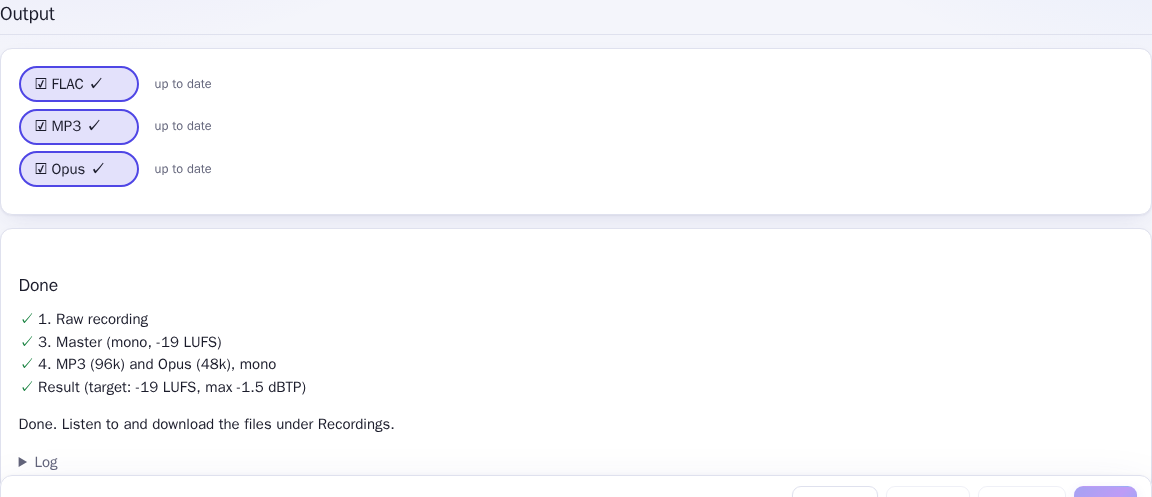
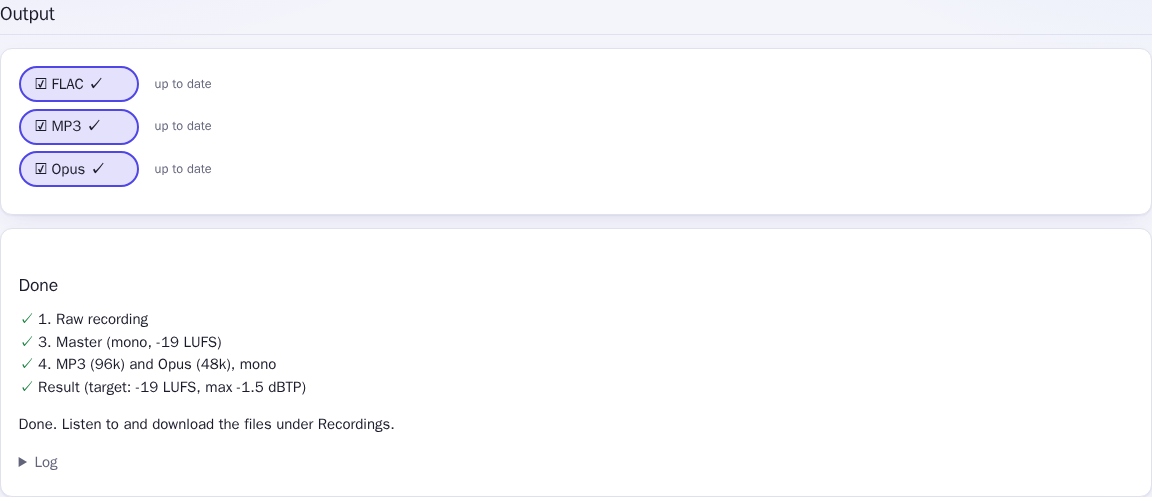
README and guide: pictures without the Save bar on top; undo and cutting while listening
The guide's cropped pictures (the sections list in the README, the cut
warning, processing, done) had the Save bar, which sticks to the bottom of
the window, drawn over their lower part. In those pictures it now sits in its
normal place, as the header already did. The README mentions undo and
cutting while listening.

Changed region(s): [[0.0, 0.9658, 1.0, 1.0]]

diff --git a/web/e2e/guide/guide.spec.js b/web/e2e/guide/guide.spec.js
@@ -7,8 +7,8 @@ import path from 'node:path';
 const DATA = process.env.DATA;
 const OUT = process.env.OUT;
 const shot = async (page, name, target = page) => {
-  // The header sticks to the top of the window: in a picture of one part of the page it would sit on top of it.
-  const style = target !== page ? await page.addStyleTag({ content: 'header { position: static !important; }' }) : null;
+  // The header and the Save bar stick to the window: in a picture of one part of the page they would sit on top of it.
+  const style = target !== page ? await page.addStyleTag({ content: 'header, .save-bar { position: static !important; }' }) : null;
   await page.waitForTimeout(400); // a dialog fades in
   await target.screenshot({ path: path.join(OUT, name + '.png') });
   await style?.evaluate((el) => el.remove());

diff --git a/README.md b/README.md
@@ -32,8 +32,9 @@ Sermon Studio does it in the browser. Drop in the recording, mark what to keep, 
 ## What it does
 
 **Cut on a waveform.** See the whole service, jump between silences, drag out the parts to keep.
-Keep one section or several, cut out a cough or a song in the middle, and label them. Hear the
-join before you commit. Nothing is ever cut from the original.
+Keep one section or several, cut out a cough or a song in the middle, and label them. Cut while you
+listen: press once where a part starts and again where it ends. Hear the join before you commit, and
+undo any step. Nothing is ever cut from the original.
 
 <p align="center"><img src="docs/img/05-sections-list.png" alt="Sections and cuts, with labels and exact times" width="760"></p>
 
